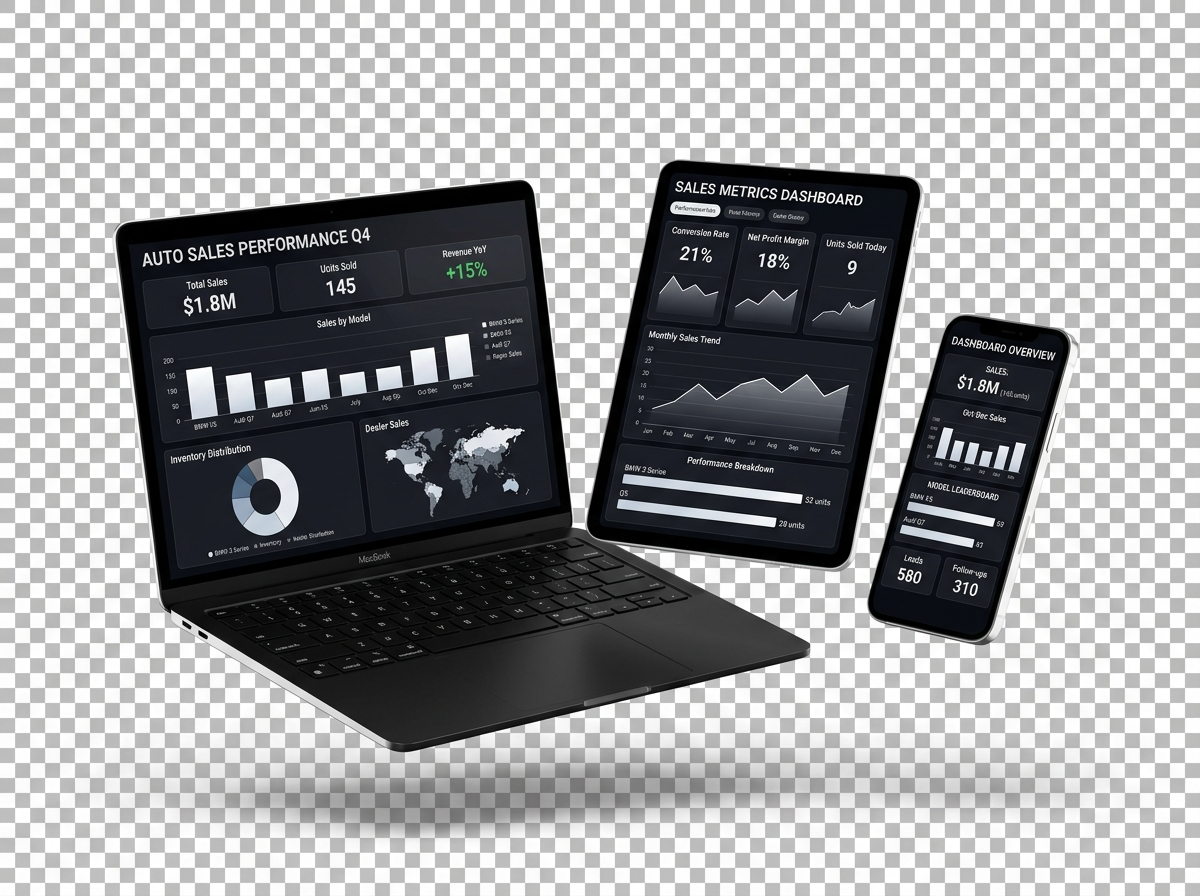
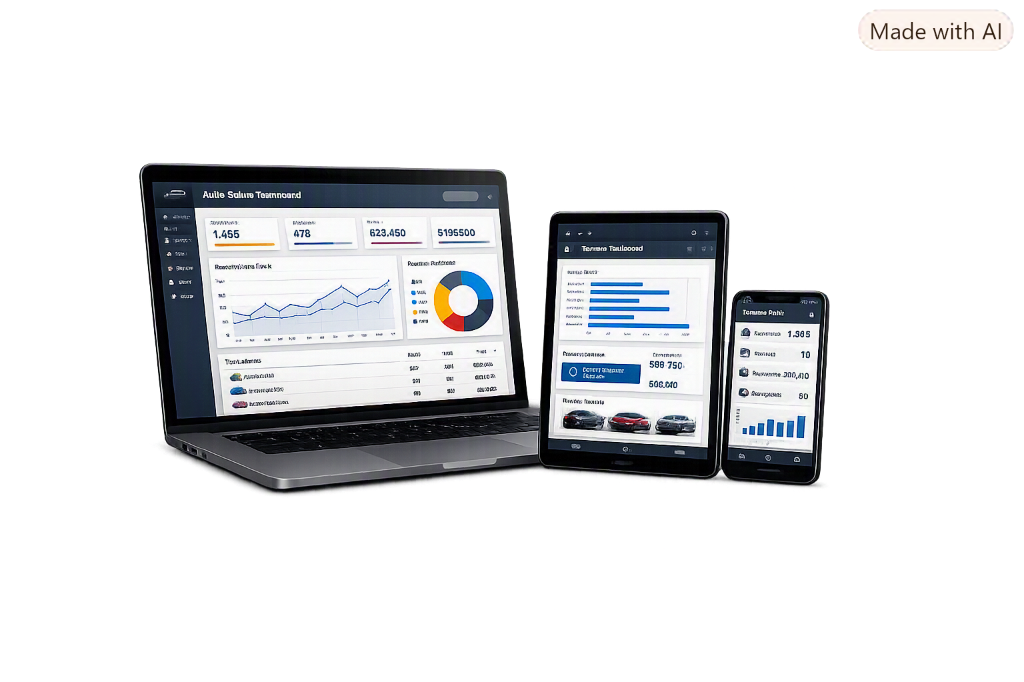
fix: use user-provided clean gadget group image for Sales & Inventory tab

diff --git a/components/home-page/offerings-tabs.tsx b/components/home-page/offerings-tabs.tsx
@@ -213,7 +213,7 @@ export const OfferingsTabs = () => {
                     src={activeData.image}
                     alt={activeData.title}
                     fill
-                    className={`object-contain drop-shadow-2xl${activeData.id === 'sales-inventory' ? ' mix-blend-multiply' : ''}`}
+                    className="object-contain drop-shadow-xl"
                     priority
                     unoptimized
                   />
